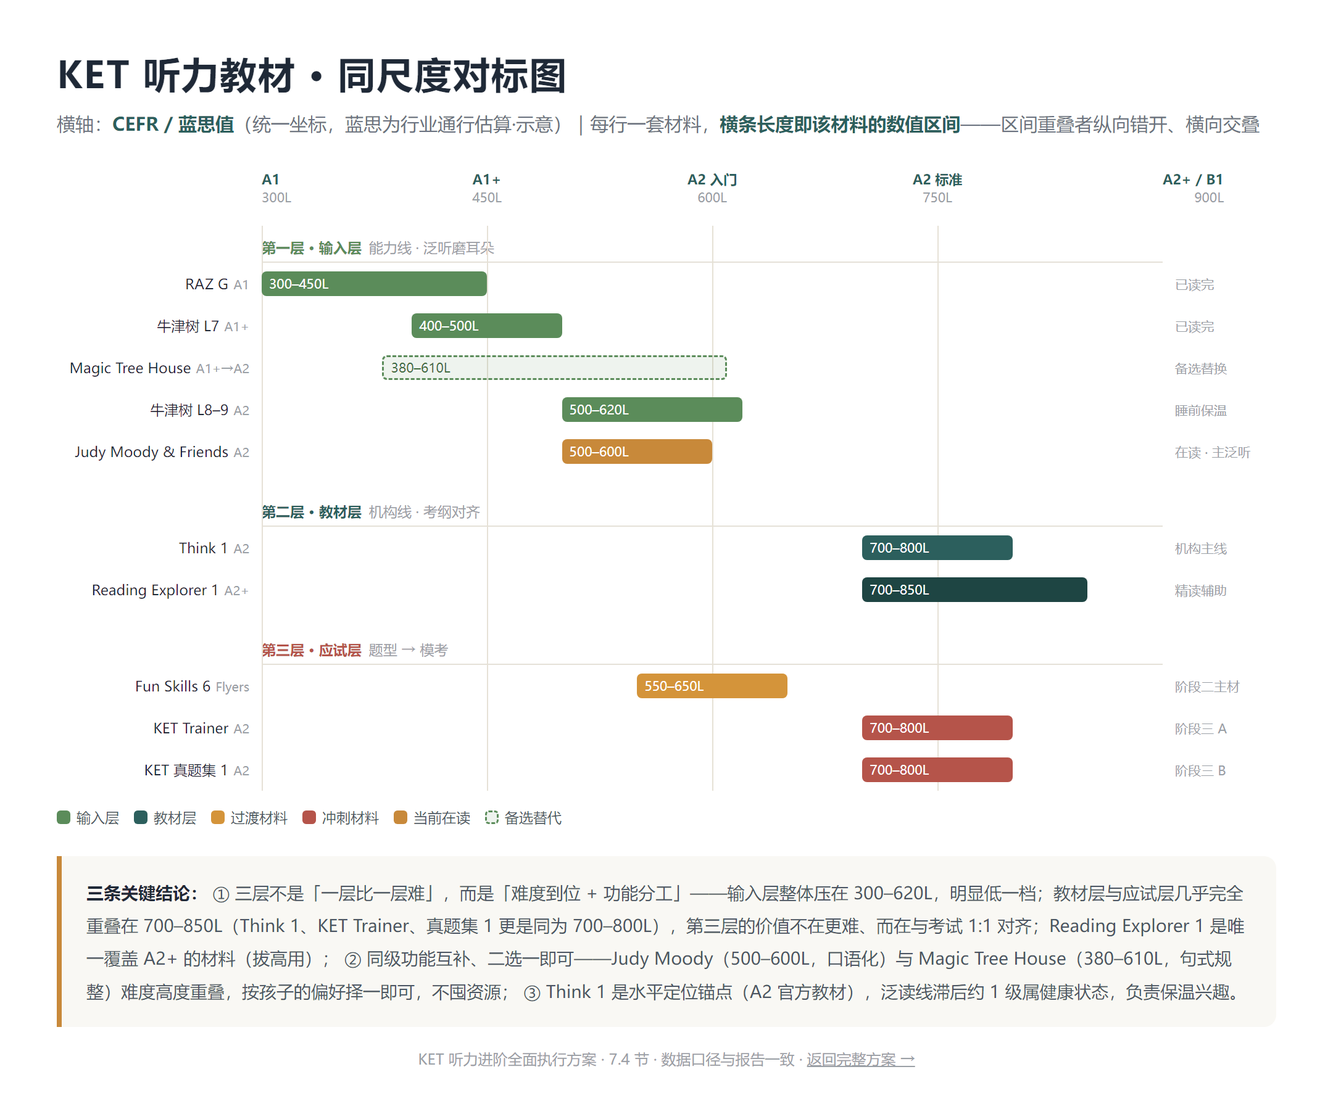
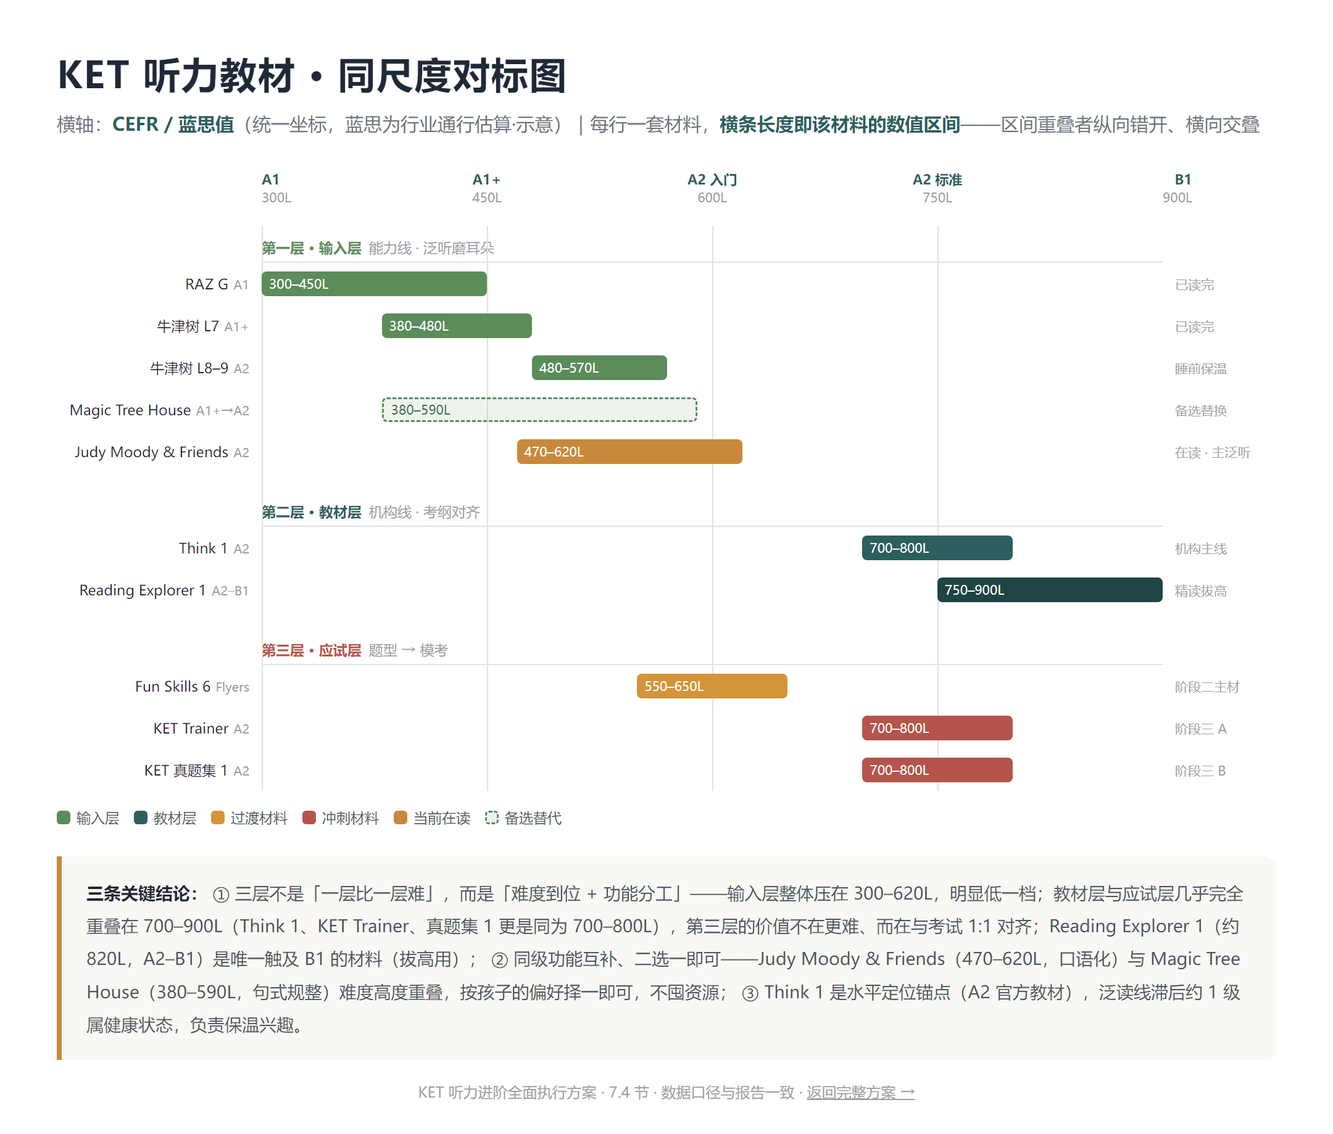
交叉验证分级数据后全站更新：校准 Judy Moody/MTH/牛津树/RE1 蓝思值；7.5 表按蓝思排序并增列分层

diff --git a/index.html b/index.html
@@ -394,7 +394,7 @@
       <tr>
         <td data-label="学习线"><strong>家庭泛读线</strong></td>
         <td data-label="当前进度">牛津树 L7（已完成）<br>RAZ G（已完成）<br>Judy Moody and Friends（在读中）</td>
-        <td data-label="定位说明">已走出分级读物、进入初章书（蓝思约 500–600L），承担词汇保温、兴趣维持、可理解输入的角色</td>
+        <td data-label="定位说明">已走出分级读物、进入初章书（蓝思约 470–620L），承担词汇保温、兴趣维持、可理解输入的角色</td>
       </tr>
       <tr>
         <td data-label="学习线"><strong>机构教学线</strong></td>
@@ -715,17 +715,17 @@
     <table class="card-table">
       <tr><th style="width:18%">资料</th><th style="width:10%">难度</th><th style="width:14%">蓝思/CEFR</th><th style="width:42%">功能与词汇</th><th style="width:16%">使用建议</th></tr>
       <tr>
-        <td data-label="资料"><strong>Judy Moody and Friends 有声书</strong></td><td data-label="难度">初章书</td><td data-label="蓝思/CEFR">约 500–600L<br>A2 入门</td>
+        <td data-label="资料"><strong>Judy Moody and Friends 有声书</strong></td><td data-label="难度">初章书</td><td data-label="蓝思/CEFR">约 470–620L<br>A2 入门</td>
         <td data-label="功能与词汇">校园生活题材，口语化、幽默梗多，听力口语化表达积累效果最佳；词汇贴近 KET 校园话题</td>
         <td data-label="使用建议">先看书后裸听；每章节听 2 遍</td>
       </tr>
       <tr>
-        <td data-label="资料"><strong>Magic Tree House 有声书</strong></td><td data-label="难度">初章书</td><td data-label="蓝思/CEFR">约 380–610L<br>A1+ → A2</td>
+        <td data-label="资料"><strong>Magic Tree House 有声书</strong></td><td data-label="难度">初章书</td><td data-label="蓝思/CEFR">约 380–590L<br>A1+ → A2</td>
         <td data-label="功能与词汇">冒险科普题材，句式规整、重复度高，适合听力耐力训练；科普词与 KET 阅读话题重合</td>
         <td data-label="使用建议">与 Judy Moody 交替使用，防审美疲劳</td>
       </tr>
       <tr>
-        <td data-label="资料"><strong>牛津树 L8–L9 音频</strong></td><td data-label="难度">分级读物</td><td data-label="蓝思/CEFR">约 500–620L<br>A2 入门</td>
+        <td data-label="资料"><strong>牛津树 L8–L9 音频</strong></td><td data-label="难度">分级读物</td><td data-label="蓝思/CEFR">约 480–570L<br>A2 入门</td>
         <td data-label="功能与词汇">已读文本的可理解输入，音形对应收尾；章节式故事听力热身</td>
         <td data-label="使用建议">睡前裸听，低压力</td>
       </tr>
@@ -735,7 +735,7 @@
         <td data-label="使用建议">跟学 + 重听复习，双线合流</td>
       </tr>
       <tr>
-        <td data-label="资料"><strong>Reading Explorer 1 音频</strong></td><td data-label="难度">精读教材</td><td data-label="蓝思/CEFR">A2<br>文本约 700+</td>
+        <td data-label="资料"><strong>Reading Explorer 1 音频</strong></td><td data-label="难度">精读教材</td><td data-label="蓝思/CEFR">A2–B1<br>约 820L</td>
         <td data-label="功能与词汇">科普类长文本听力，词汇密度高，为 KET 之后的衔接打底（可只听不做题）</td>
         <td data-label="使用建议">配合精读课使用，泛听为主</td>
       </tr>
@@ -781,7 +781,7 @@
 
   <div class="card">
     <h3>7.4 全套材料同尺度对比（蓝思 × CEFR 统一坐标）</h3>
-    <p>把方案涉及的 <b>10 套材料（9 套主用 + 1 套备选 Magic Tree House）</b>放进同一坐标系：横轴是 CEFR 与蓝思值，<b>每条横条的长度就是该材料的实际数值区间</b>。所以区间重叠的材料会在纵向上错开、横向上交叠——同难度带的材料立刻显形，不必再靠记忆去猜「谁比谁难」。蓝思值为行业通行估算，非官方精确值，全图标注「示意」。</p>
+    <p>把方案涉及的 <b>10 套材料（9 套主用 + 1 套备选 Magic Tree House）</b>放进同一坐标系：横轴是 CEFR 与蓝思值，<b>每条横条的长度就是该材料的实际数值区间</b>。所以区间重叠的材料会在纵向上错开、横向上交叠——同难度带的材料立刻显形，不必再靠记忆去猜「谁比谁难」。蓝思值为行业通行估算，非官方精确值，全图标注「示意」。<b>本版数值已交叉核对</b>：分级读物与初章书取各家分级对照表（RAZ 官方对照、牛津树分级对照、AR/Lexile 书单表）的通行区间；教材按出版社官方 CEFR 标注（Think 1 = A2，Reading Explorer 1 = A2–B1，Fun Skills 6 = Flyers/A2）。</p>
 <div class="gm">
 <div class="gm-inner">
 
@@ -792,7 +792,7 @@
       <div class="gm-tick" style="left:25%;"><b>A1+</b>450L</div>
       <div class="gm-tick" style="left:50%;"><b>A2 入门</b>600L</div>
       <div class="gm-tick" style="left:75%;"><b>A2 标准</b>750L</div>
-      <div class="gm-tick last" style="left:100%;"><b>A2+ / B1</b>900L</div>
+      <div class="gm-tick last" style="left:100%;"><b>B1</b>900L</div>
     </div>
     <div class="gm-layer-role"></div>
   </div>
@@ -809,22 +809,22 @@
     </div>
     <div class="gm-row">
       <div class="gm-name"><span class="nm">牛津树 L7</span><em>A1+</em></div>
-      <div class="gm-plot"><div class="gm-bar" style="left:16.67%;width:16.66%;background:#5B8C5A;">400–500L</div></div>
+      <div class="gm-plot"><div class="gm-bar" style="left:13.33%;width:16.67%;background:#5B8C5A;">380–480L</div></div>
       <div class="gm-role">已读完</div>
     </div>
     <div class="gm-row">
-      <div class="gm-name"><span class="nm">Magic Tree House</span><em>A1+→A2</em></div>
-      <div class="gm-plot"><div class="gm-bar alt" style="left:13.33%;width:38.34%;">380–610L</div></div>
-      <div class="gm-role">备选替换</div>
-    </div>
-    <div class="gm-row">
       <div class="gm-name"><span class="nm">牛津树 L8–9</span><em>A2</em></div>
-      <div class="gm-plot"><div class="gm-bar" style="left:33.33%;width:20%;background:#5B8C5A;">500–620L</div></div>
+      <div class="gm-plot"><div class="gm-bar" style="left:30%;width:15%;background:#5B8C5A;">480–570L</div></div>
       <div class="gm-role">睡前保温</div>
     </div>
     <div class="gm-row">
+      <div class="gm-name"><span class="nm">Magic Tree House</span><em>A1+→A2</em></div>
+      <div class="gm-plot"><div class="gm-bar alt" style="left:13.33%;width:35%;">380–590L</div></div>
+      <div class="gm-role">备选替换</div>
+    </div>
+    <div class="gm-row">
       <div class="gm-name"><span class="nm">Judy Moody &amp; Friends</span><em>A2</em></div>
-      <div class="gm-plot"><div class="gm-bar cur" style="left:33.33%;width:16.67%;">500–600L</div></div>
+      <div class="gm-plot"><div class="gm-bar cur" style="left:28.33%;width:25%;">470–620L</div></div>
       <div class="gm-role">在读 · 主泛听</div>
     </div>
 
@@ -836,9 +836,9 @@
       <div class="gm-role">机构主线</div>
     </div>
     <div class="gm-row">
-      <div class="gm-name"><span class="nm">Reading Explorer 1</span><em>A2+</em></div>
-      <div class="gm-plot"><div class="gm-bar" style="left:66.67%;width:25%;background:#1E4543;">700–850L</div></div>
-      <div class="gm-role">精读辅助</div>
+      <div class="gm-name"><span class="nm">Reading Explorer 1</span><em>A2–B1</em></div>
+      <div class="gm-plot"><div class="gm-bar" style="left:75%;width:25%;background:#1E4543;">750–900L</div></div>
+      <div class="gm-role">精读拔高</div>
     </div>
 
     <div class="gm-layer"><div class="gm-layer-name"></div><div class="gm-layer-title" style="color:#B5544A;">第三层 · 应试层<span>题型 → 模考</span></div><div class="gm-layer-role"></div></div>
@@ -874,19 +874,20 @@
   </div>
 
   <div class="card">
-    <h3>7.5 材料差异化对比表（9 套主用 + 1 套备选）</h3>
+    <h3>7.5 材料差异化对比表（10 套 · 按蓝思区间从易到难）</h3>
+    <p style="margin:2px 0 10px;">下表按蓝思区间<b>上限</b>由易到难排列，与上图按「三层功能」分组的视角互为补充；「层」列沿用上图配色，便于对照。数值已交叉核对：分级读物与初章书取各家分级对照表的通行区间，教材按出版社官方 CEFR 标注，标「约」者为推算。</p>
     <table class="card-table">
-      <tr><th style="width:18%">材料</th><th style="width:12%">体裁</th><th style="width:16%">蓝思/CEFR（估）</th><th style="width:18%">词汇功能</th><th style="width:22%">听力角色与 KET 相关性</th><th style="width:14%">优先级</th></tr>
-      <tr><td data-label="材料">RAZ G</td><td data-label="体裁">分级读物</td><td data-label="蓝思/CEFR（估）">300–450L · A1</td><td data-label="词汇功能">科普+生活基础词</td><td data-label="听力角色与 KET 相关性">阅读词汇转听力；间接打底</td><td data-label="优先级">已读完</td></tr>
-      <tr><td data-label="材料">牛津树 L7</td><td data-label="体裁">分级读物</td><td data-label="蓝思/CEFR（估）">400–500L · A1+</td><td data-label="词汇功能">生活冒险词，对话增多</td><td data-label="听力角色与 KET 相关性">可理解输入、音形对应；间接</td><td data-label="优先级">已读完</td></tr>
-      <tr><td data-label="材料">Judy Moody and Friends</td><td data-label="体裁">初章书</td><td data-label="蓝思/CEFR（估）">500–600L · A1+→A2</td><td data-label="词汇功能">校园口语、幽默表达</td><td data-label="听力角色与 KET 相关性">口语化语音流泛听；话题与 KET 校园场景重合度高</td><td data-label="优先级">主泛听（在读）</td></tr>
-      <tr><td data-label="材料">Magic Tree House</td><td data-label="体裁">初章书</td><td data-label="蓝思/CEFR（估）">380–610L · A1+→A2</td><td data-label="词汇功能">冒险+科普词</td><td data-label="听力角色与 KET 相关性">听力耐力训练；句式规整，可理解性强</td><td data-label="优先级">备选替代</td></tr>
-      <tr><td data-label="材料">牛津树 L8–9</td><td data-label="体裁">分级读物</td><td data-label="蓝思/CEFR（估）">500–620L · A2 入门</td><td data-label="词汇功能">章节式故事，信息密度提升</td><td data-label="听力角色与 KET 相关性">睡前裸听，向考试语速靠拢；间接</td><td data-label="优先级">睡前保温</td></tr>
-      <tr><td data-label="材料">Think 1</td><td data-label="体裁">综合教材</td><td data-label="蓝思/CEFR（估）">A2 · 约 700L+</td><td data-label="词汇功能">KET 考纲全话题词</td><td data-label="听力角色与 KET 相关性">能力主线：听力板块与题型同源；相关性高</td><td data-label="优先级">机构主线（在读）</td></tr>
-      <tr><td data-label="材料">Reading Explorer 1</td><td data-label="体裁">阅读教材</td><td data-label="蓝思/CEFR（估）">A2+ · 700–850L</td><td data-label="词汇功能">学术科普、高密度词汇</td><td data-label="听力角色与 KET 相关性">长文本精听拔高；超出 KET 上限，为后续衔接</td><td data-label="优先级">阅读强化（在读）</td></tr>
-      <tr><td data-label="材料">Fun Skills 6</td><td data-label="体裁">官方过渡</td><td data-label="蓝思/CEFR（估）">Flyers · 约 550–650L</td><td data-label="词汇功能">Flyers 考纲词</td><td data-label="听力角色与 KET 相关性">题型无痛过渡，题型与 KET 同源；相关性高</td><td data-label="优先级">阶段二主材</td></tr>
-      <tr><td data-label="材料">KET Trainer 校园版</td><td data-label="体裁">官方备考</td><td data-label="蓝思/CEFR（估）">A2 · 约 700L+</td><td data-label="词汇功能">KET 考纲全词汇</td><td data-label="听力角色与 KET 相关性">题型方法 + 模拟题；直接对应</td><td data-label="优先级">阶段三主材</td></tr>
-      <tr><td data-label="材料">KET 官方真题集 1</td><td data-label="体裁">官方真题</td><td data-label="蓝思/CEFR（估）">A2 · 官方难度</td><td data-label="词汇功能">KET 考纲 100%</td><td data-label="听力角色与 KET 相关性">全真模考 + 精听；1:1 对应考试</td><td data-label="优先级">阶段三核心</td></tr>
+      <tr><th style="width:17%">材料</th><th style="width:4%">层</th><th style="width:12%">体裁</th><th style="width:17%">蓝思/CEFR（估）</th><th style="width:14%">词汇功能</th><th style="width:24%">听力角色与 KET 相关性</th><th style="width:12%">优先级</th></tr>
+      <tr><td data-label="材料"><strong>RAZ G</strong></td><td data-label="层"><span style="color:#5B8C5A;font-weight:700;">一</span></td><td data-label="体裁">分级读物</td><td data-label="蓝思/CEFR（估）">300–450L · A1</td><td data-label="词汇功能">科普+生活基础词</td><td data-label="听力角色与 KET 相关性">阅读词汇转听力；间接打底</td><td data-label="优先级">已读完</td></tr>
+      <tr><td data-label="材料"><strong>牛津树 L7</strong></td><td data-label="层"><span style="color:#5B8C5A;font-weight:700;">一</span></td><td data-label="体裁">分级读物</td><td data-label="蓝思/CEFR（估）">380–480L · A1+</td><td data-label="词汇功能">生活冒险词，对话增多</td><td data-label="听力角色与 KET 相关性">可理解输入、音形对应；间接</td><td data-label="优先级">已读完</td></tr>
+      <tr><td data-label="材料"><strong>牛津树 L8–9</strong></td><td data-label="层"><span style="color:#5B8C5A;font-weight:700;">一</span></td><td data-label="体裁">分级读物</td><td data-label="蓝思/CEFR（估）">480–570L · A2</td><td data-label="词汇功能">章节式故事，信息密度提升</td><td data-label="听力角色与 KET 相关性">睡前裸听，向考试语速靠拢；间接</td><td data-label="优先级">睡前保温</td></tr>
+      <tr><td data-label="材料"><strong>Magic Tree House</strong></td><td data-label="层"><span style="color:#5B8C5A;font-weight:700;">一</span></td><td data-label="体裁">初章书</td><td data-label="蓝思/CEFR（估）">380–590L · A1+→A2</td><td data-label="词汇功能">冒险+科普词</td><td data-label="听力角色与 KET 相关性">听力耐力训练；句式规整，可理解性强</td><td data-label="优先级">备选替代</td></tr>
+      <tr><td data-label="材料"><strong>Judy Moody &amp; Friends</strong></td><td data-label="层"><span style="color:#5B8C5A;font-weight:700;">一</span></td><td data-label="体裁">初章书</td><td data-label="蓝思/CEFR（估）">470–620L · A2</td><td data-label="词汇功能">校园口语、幽默表达</td><td data-label="听力角色与 KET 相关性">口语化语音流泛听；话题与 KET 校园场景重合度高</td><td data-label="优先级">主泛听（在读）</td></tr>
+      <tr><td data-label="材料"><strong>Fun Skills 6</strong></td><td data-label="层"><span style="color:#B5544A;font-weight:700;">三</span></td><td data-label="体裁">官方过渡</td><td data-label="蓝思/CEFR（估）">Flyers（A2）· 约 550–650L</td><td data-label="词汇功能">Flyers 考纲词</td><td data-label="听力角色与 KET 相关性">题型无痛过渡，题型与 KET 同源；相关性高</td><td data-label="优先级">阶段二主材</td></tr>
+      <tr><td data-label="材料"><strong>Think 1</strong></td><td data-label="层"><span style="color:#2C5F5D;font-weight:700;">二</span></td><td data-label="体裁">综合教材</td><td data-label="蓝思/CEFR（估）">A2 · 约 700–800L</td><td data-label="词汇功能">KET 考纲全话题词</td><td data-label="听力角色与 KET 相关性">能力主线：听力板块与题型同源；相关性高</td><td data-label="优先级">机构主线（在读）</td></tr>
+      <tr><td data-label="材料"><strong>KET Trainer 校园版</strong></td><td data-label="层"><span style="color:#B5544A;font-weight:700;">三</span></td><td data-label="体裁">官方备考</td><td data-label="蓝思/CEFR（估）">A2 · 约 700–800L</td><td data-label="词汇功能">KET 考纲全词汇</td><td data-label="听力角色与 KET 相关性">题型方法 + 模拟题；直接对应</td><td data-label="优先级">阶段三主材</td></tr>
+      <tr><td data-label="材料"><strong>KET 官方真题集 1</strong></td><td data-label="层"><span style="color:#B5544A;font-weight:700;">三</span></td><td data-label="体裁">官方真题</td><td data-label="蓝思/CEFR（估）">A2 · 700–800L</td><td data-label="词汇功能">KET 考纲 100%</td><td data-label="听力角色与 KET 相关性">全真模考 + 精听；1:1 对应考试</td><td data-label="优先级">阶段三核心</td></tr>
+      <tr><td data-label="材料"><strong>Reading Explorer 1</strong></td><td data-label="层"><span style="color:#2C5F5D;font-weight:700;">二</span></td><td data-label="体裁">阅读教材</td><td data-label="蓝思/CEFR（估）">A2–B1 · 约 750–900L</td><td data-label="词汇功能">学术科普、高密度词汇</td><td data-label="听力角色与 KET 相关性">长文本精听拔高；唯一触及 B1，为后续衔接</td><td data-label="优先级">阅读强化（在读）</td></tr>
     </table>
   </div>
 
@@ -918,7 +919,7 @@
         </div>
       </div>
     </div>
-    <div class="note"><b>同尺度对比的关键结论：</b>① 三层不是「一层比一层难」，而是「难度到位 + 功能分工」——输入层整体压在 300–620L，明显低一档；教材层与应试层几乎完全重叠在 700–850L（Think 1、KET Trainer、真题集 1 更是同为 700–800L），所以第三层的价值不在更难、而在与考试 1:1 对齐；RE 1 是唯一覆盖 A2+ 的材料，负责拔高；② 功能上互补而非重复——同层材料二选一即可，跨层材料不可替代（Judy Moody 与 Magic Tree House 同为 380–610L 一带，重口语选前者、重句式规整选后者）；③ 双线结构成立——Think 1 锚定 A2 是定位基准，泛读线滞后约 1 级不影响备考，反而负责保温兴趣。</div>
+    <div class="note"><b>同尺度对比的关键结论：</b>① 三层不是「一层比一层难」，而是「难度到位 + 功能分工」——输入层整体压在 300–620L，明显低一档；教材层与应试层几乎完全重叠在 700–900L（Think 1、KET Trainer、真题集 1 更是同为 700–800L），所以第三层的价值不在更难、而在与考试 1:1 对齐；RE 1（约 820L，A2–B1）是唯一触及 B1 的材料，负责拔高；② 功能上互补而非重复——同层材料二选一即可，跨层材料不可替代（Judy Moody &amp; Friends 470–620L 与 Magic Tree House 380–590L 难度高度重叠，重口语选前者、重句式规整选后者）；③ 双线结构成立——Think 1 锚定 A2 是定位基准，泛读线滞后约 1 级不影响备考，反而负责保温兴趣。</div>
   </div>
 </section>
 

diff --git a/ket-scale-map.html b/ket-scale-map.html
@@ -68,7 +68,7 @@
       <div class="gm-tick" style="left:25%;"><b>A1+</b>450L</div>
       <div class="gm-tick" style="left:50%;"><b>A2 入门</b>600L</div>
       <div class="gm-tick" style="left:75%;"><b>A2 标准</b>750L</div>
-      <div class="gm-tick last" style="left:100%;"><b>A2+ / B1</b>900L</div>
+      <div class="gm-tick last" style="left:100%;"><b>B1</b>900L</div>
     </div>
     <div class="gm-layer-role"></div>
   </div>
@@ -85,22 +85,22 @@
     </div>
     <div class="gm-row">
       <div class="gm-name"><span class="nm">牛津树 L7</span><em>A1+</em></div>
-      <div class="gm-plot"><div class="gm-bar" style="left:16.67%;width:16.66%;background:#5B8C5A;">400–500L</div></div>
+      <div class="gm-plot"><div class="gm-bar" style="left:13.33%;width:16.67%;background:#5B8C5A;">380–480L</div></div>
       <div class="gm-role">已读完</div>
     </div>
     <div class="gm-row">
-      <div class="gm-name"><span class="nm">Magic Tree House</span><em>A1+→A2</em></div>
-      <div class="gm-plot"><div class="gm-bar alt" style="left:13.33%;width:38.34%;">380–610L</div></div>
-      <div class="gm-role">备选替换</div>
-    </div>
-    <div class="gm-row">
       <div class="gm-name"><span class="nm">牛津树 L8–9</span><em>A2</em></div>
-      <div class="gm-plot"><div class="gm-bar" style="left:33.33%;width:20%;background:#5B8C5A;">500–620L</div></div>
+      <div class="gm-plot"><div class="gm-bar" style="left:30%;width:15%;background:#5B8C5A;">480–570L</div></div>
       <div class="gm-role">睡前保温</div>
     </div>
     <div class="gm-row">
+      <div class="gm-name"><span class="nm">Magic Tree House</span><em>A1+→A2</em></div>
+      <div class="gm-plot"><div class="gm-bar alt" style="left:13.33%;width:35%;">380–590L</div></div>
+      <div class="gm-role">备选替换</div>
+    </div>
+    <div class="gm-row">
       <div class="gm-name"><span class="nm">Judy Moody &amp; Friends</span><em>A2</em></div>
-      <div class="gm-plot"><div class="gm-bar cur" style="left:33.33%;width:16.67%;">500–600L</div></div>
+      <div class="gm-plot"><div class="gm-bar cur" style="left:28.33%;width:25%;">470–620L</div></div>
       <div class="gm-role">在读 · 主泛听</div>
     </div>
 
@@ -112,9 +112,9 @@
       <div class="gm-role">机构主线</div>
     </div>
     <div class="gm-row">
-      <div class="gm-name"><span class="nm">Reading Explorer 1</span><em>A2+</em></div>
-      <div class="gm-plot"><div class="gm-bar" style="left:66.67%;width:25%;background:#1E4543;">700–850L</div></div>
-      <div class="gm-role">精读辅助</div>
+      <div class="gm-name"><span class="nm">Reading Explorer 1</span><em>A2–B1</em></div>
+      <div class="gm-plot"><div class="gm-bar" style="left:75%;width:25%;background:#1E4543;">750–900L</div></div>
+      <div class="gm-role">精读拔高</div>
     </div>
 
     <div class="gm-layer"><div class="gm-layer-name"></div><div class="gm-layer-title" style="color:#B5544A;">第三层 · 应试层<span>题型 → 模考</span></div><div class="gm-layer-role"></div></div>
@@ -150,8 +150,8 @@
 
   <div class="concl">
     <b>三条关键结论：</b>
-    ① 三层不是「一层比一层难」，而是「难度到位 + 功能分工」——输入层整体压在 300–620L，明显低一档；教材层与应试层几乎完全重叠在 700–850L（Think 1、KET Trainer、真题集 1 更是同为 700–800L），第三层的价值不在更难、而在与考试 1:1 对齐；Reading Explorer 1 是唯一覆盖 A2+ 的材料（拔高用）；
-    ② 同级功能互补、二选一即可——Judy Moody（500–600L，口语化）与 Magic Tree House（380–610L，句式规整）难度高度重叠，按孩子的偏好择一即可，不囤资源；
+    ① 三层不是「一层比一层难」，而是「难度到位 + 功能分工」——输入层整体压在 300–620L，明显低一档；教材层与应试层几乎完全重叠在 700–900L（Think 1、KET Trainer、真题集 1 更是同为 700–800L），第三层的价值不在更难、而在与考试 1:1 对齐；Reading Explorer 1（约 820L，A2–B1）是唯一触及 B1 的材料（拔高用）；
+    ② 同级功能互补、二选一即可——Judy Moody & Friends（470–620L，口语化）与 Magic Tree House（380–590L，句式规整）难度高度重叠，按孩子的偏好择一即可，不囤资源；
     ③ Think 1 是水平定位锚点（A2 官方教材），泛读线滞后约 1 级属健康状态，负责保温兴趣。
   </div>
 
